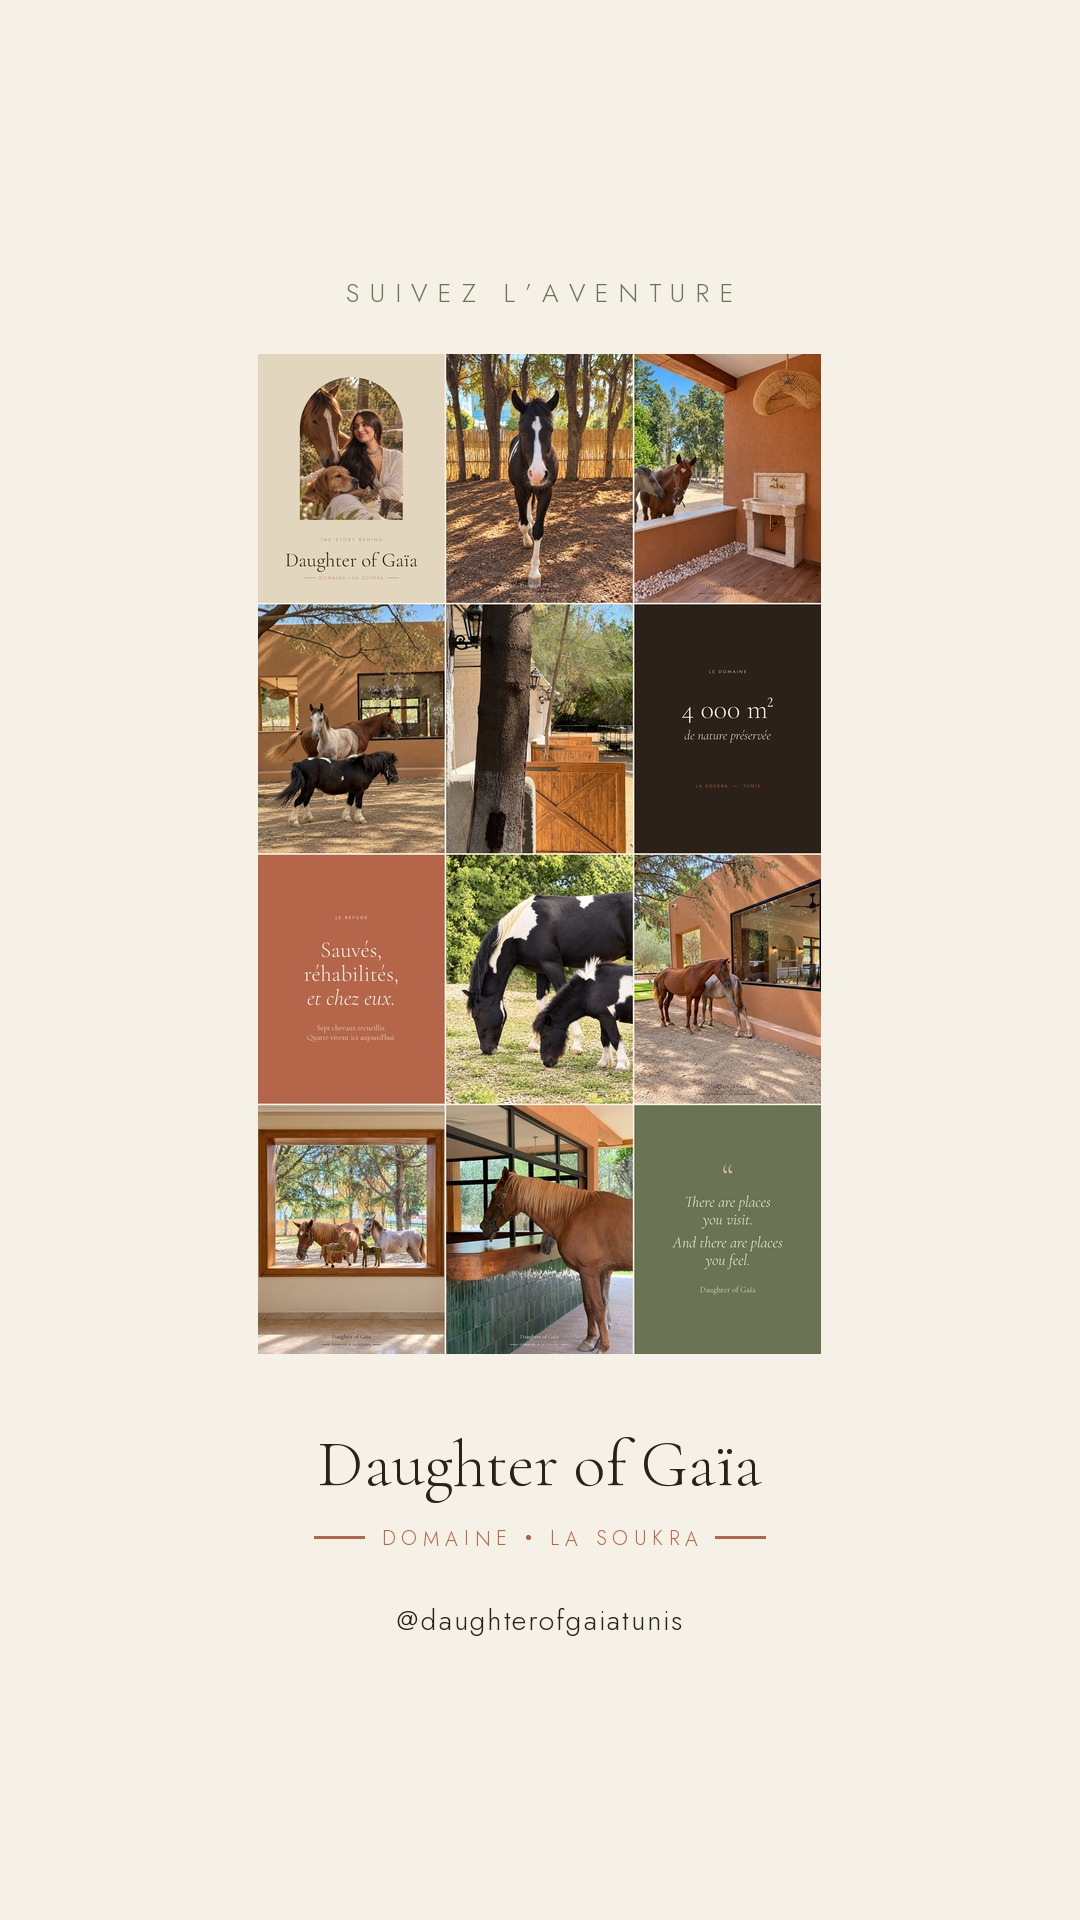
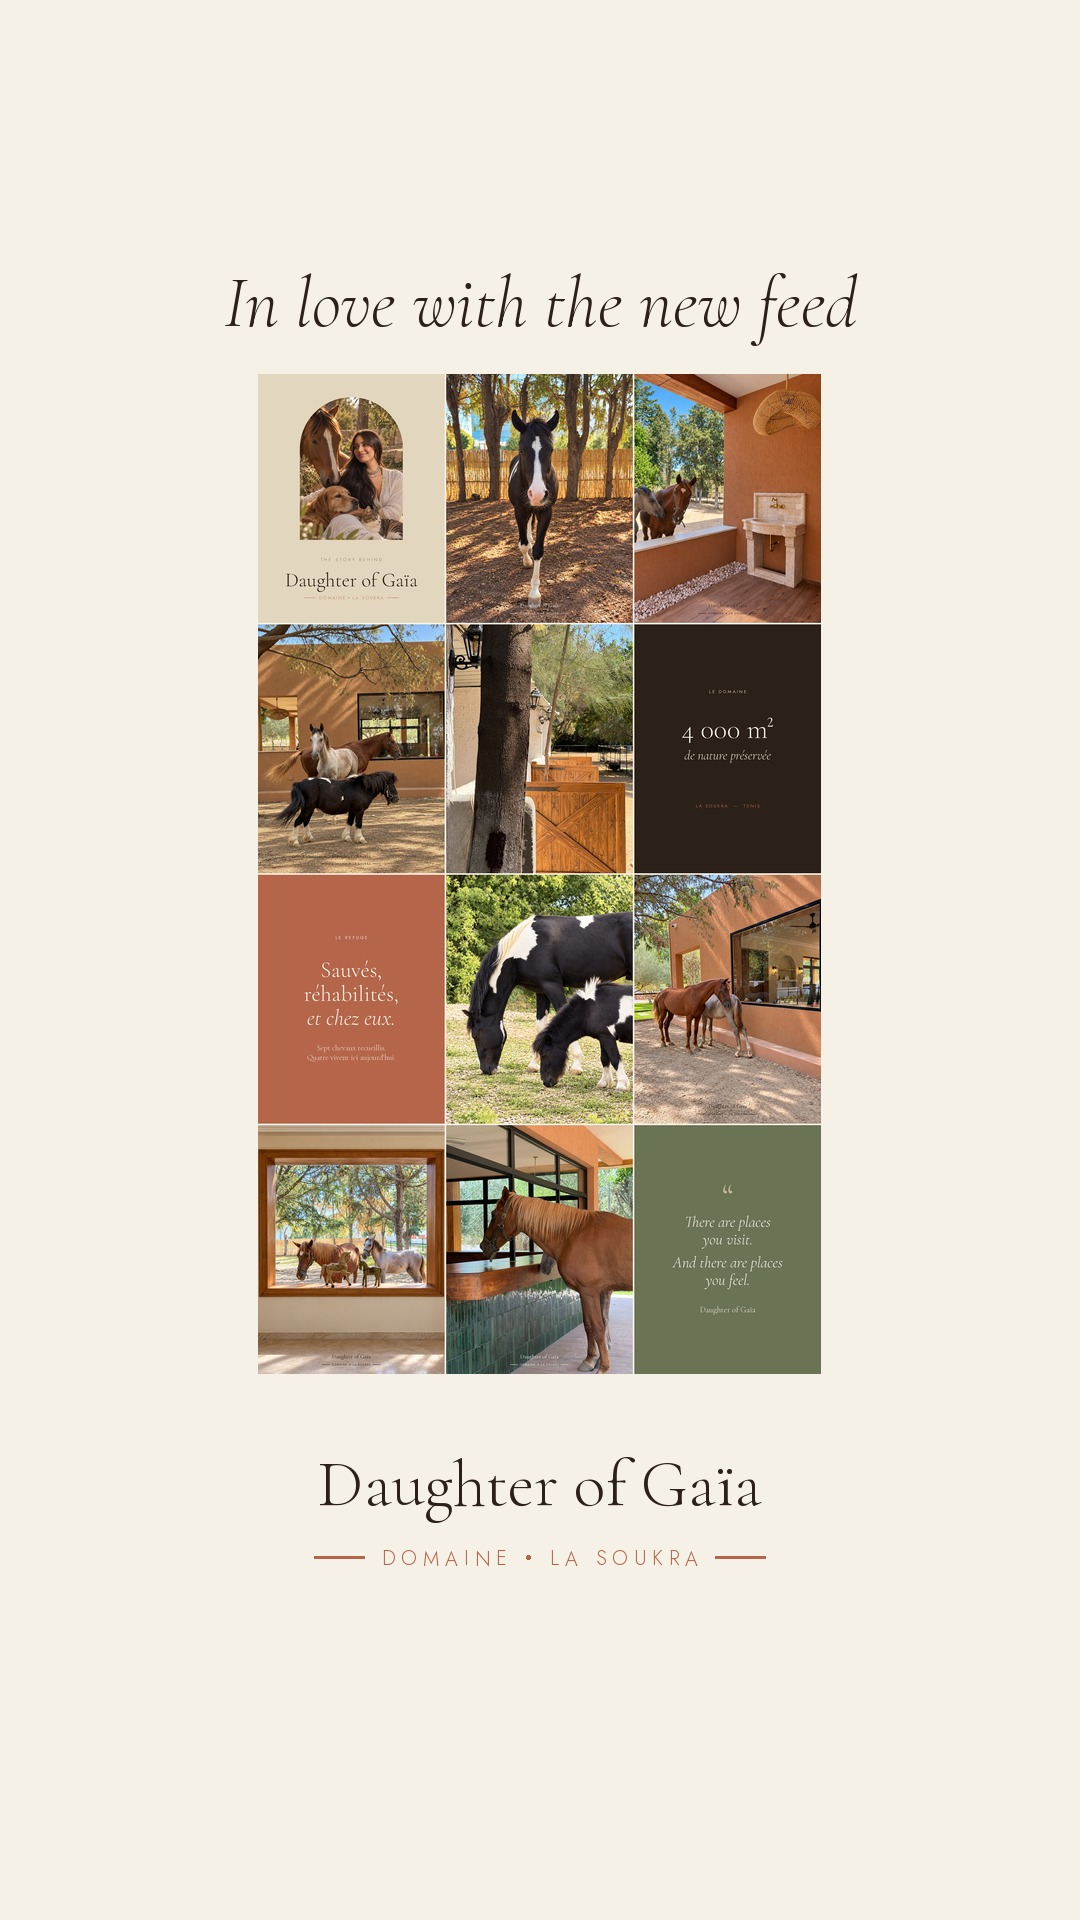
Story du fil : « In love with the new feed », place pour l'autocollant
Claude-Session: https://claude.ai/code/session_01MS2dviwewWZA4sauzwea3X

Changed region(s): [[0.2139, 0.125, 0.7944, 0.7188], [0.3056, 0.75, 0.7028, 0.8125]]

diff --git a/instagram/feed_perso.py b/instagram/feed_perso.py
@@ -48,7 +48,7 @@ W, H = STORY
 # Fond blanc cassé : la couverture du Reel, crème, se détache ainsi du fond.
 im = Image.new("RGB", STORY, BLANC)
 d = ImageDraw.Draw(im)
-centre(d, 250, "SUIVEZ L’AVENTURE", sans(26, 300), OLIVE, W, 10)
+centre(d, 215, "In love with the new feed", italique(72, 300), ENCRE, W)
 gh = 1000
 gw = round(gh * g.width / g.height)
 im.paste(grille(BLANC).resize((gw, gh), Image.LANCZOS), ((W - gw) // 2, 330))
@@ -56,6 +56,6 @@ f_logo = serif(taille_logo(440), 300)
 y_nom = 330 + gh + 70
 centre(d, y_nom, LOGO, f_logo, ENCRE, W)
 y = ligne_domaine(d, W / 2, y_nom + f_logo.getmetrics()[0] + 45, TERRA, taille=20, esp=6, graisse=300, ep=1.5, trait=50, ecart=18)
-centre(d, y + 55, "@daughterofgaiatunis", sans(28, 300), ENCRE, W, 2)
-sauver(recentrer(im, BLANC, H / 2), OUT / "story-fil.jpg")
+# Le compte n'est pas écrit : l'autocollant Lien ou Mention se pose sous la signature.
+sauver(recentrer(im, BLANC, H / 2 - 40), OUT / "story-fil.jpg")
 print("ok")
